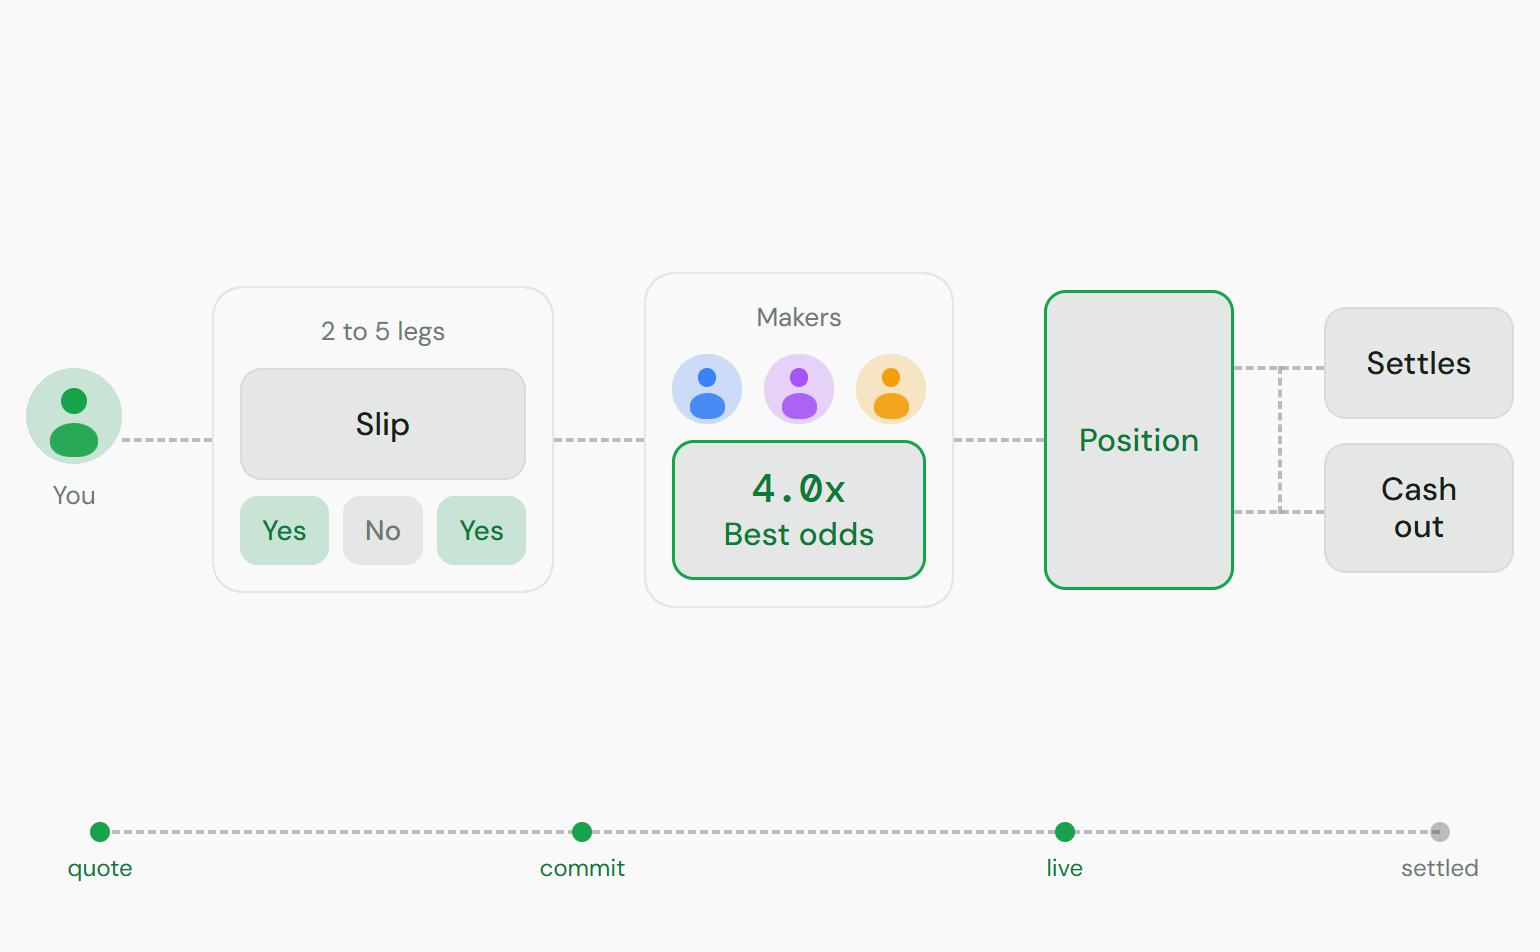
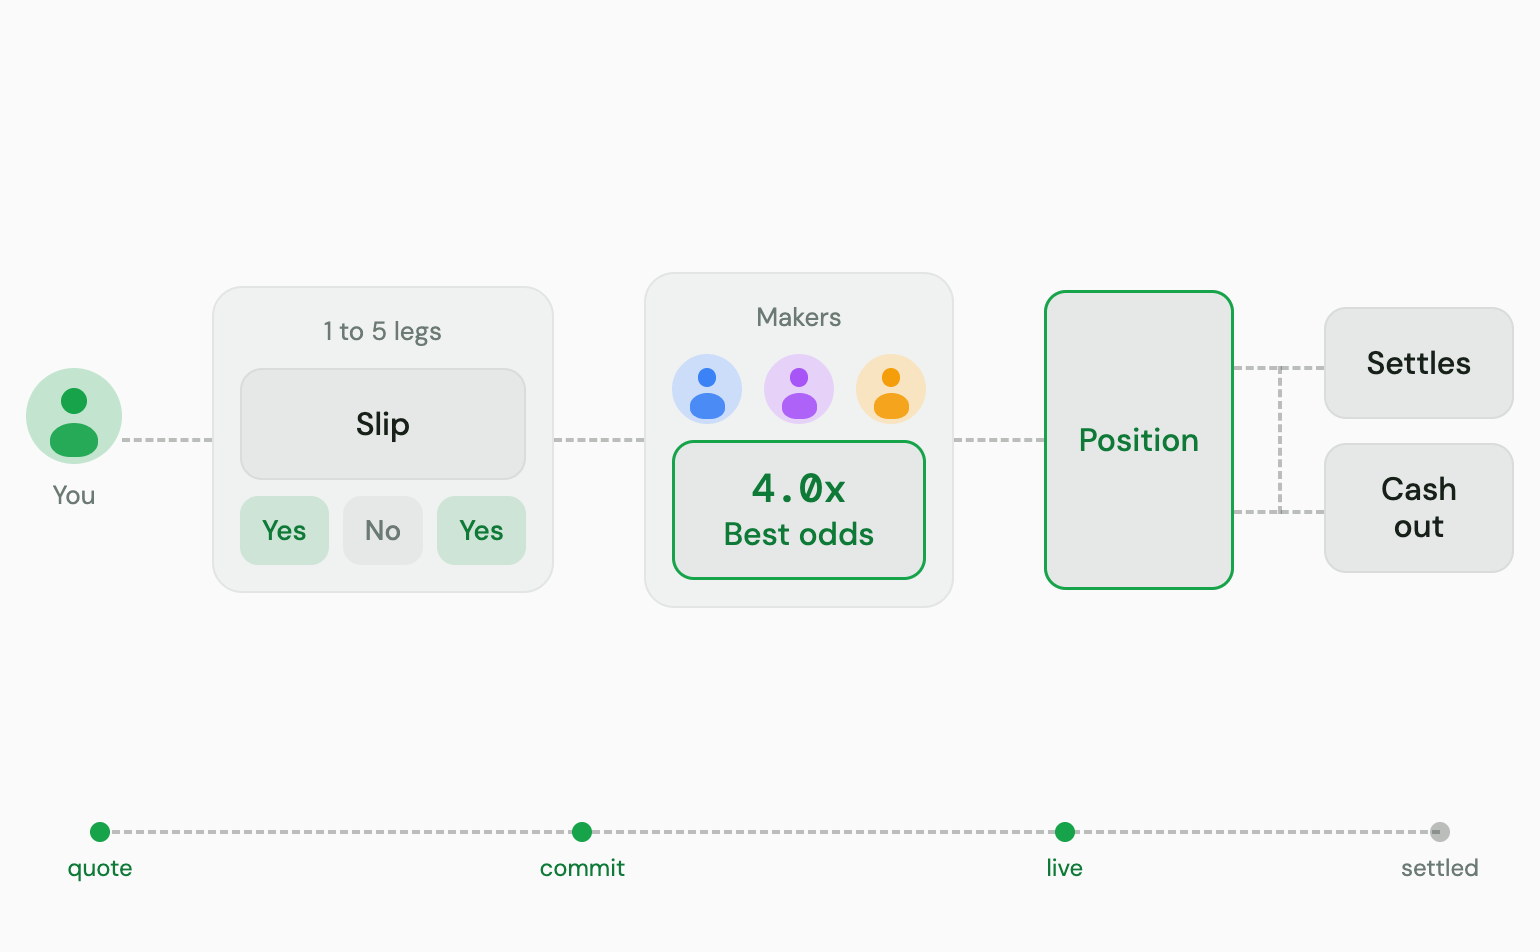
docs: single-leg parlays and a 1000 USDC bet cap
Legs per parlay go from 2-5 to 1-5 and the bet cap from 100 to 1000 USDC.
Payout odds keep their 1.0001 floor and lose the 1000 ceiling. Pages other
than Limits and fees and the API reference now link to the limits instead of
restating them.

diff --git a/images/pictures/src/lifecycle.html b/images/pictures/src/lifecycle.html
@@ -78,4 +78,4 @@ html, body { margin: 0; width: 1540px; height: 952px; background: var(--bg); fon
 .chan .bar { position: absolute; top: 0; height: 84px; border-radius: 22px; background: var(--box); border: 2px solid var(--box-line); }
 .chan .bar.hi { background: var(--accent-soft); border-color: transparent; }
 .marks { position: absolute; left: 400px; right: 100px; top: 700px; border-top: 4px dashed var(--dash); }
-</style></head><body><div class="stage"><div class="inner" style="zoom:1.0"><div class="who"><div class="avatar a1"></div><div class="label">You</div></div><div class="dl"></div><div class="panel"><p class="cap">2 to 5 legs</p><div class="box"><div class="t">Slip</div></div><div class="chips"><div class="chip yes">Yes</div><div class="chip no">No</div><div class="chip yes">Yes</div></div></div><div class="dl"></div><div class="panel"><p class="cap">Makers</p><div class="people"><div class="avatar a2 sm"></div><div class="avatar a3 sm"></div><div class="avatar a4 sm"></div></div><div class="box hi"><div class="n">4.0x</div><div class="t">Best odds</div></div></div><div class="dl"></div><div class="box hi tall"><div class="t">Position</div></div><div class="fork" style="--top:28%;--bottom:28%"><div class="arm a"></div><div class="arm b"></div></div><div class="stack"><div class="box"><div class="t">Settles</div></div><div class="box"><div class="t">Cash out</div></div></div></div></div><div class="rail"><div class="tick on" style="left:0%"><span>quote</span></div><div class="tick on" style="left:36%"><span>commit</span></div><div class="tick on" style="left:72%"><span>live</span></div><div class="tick " style="left:100%"><span>settled</span></div></div><script>if (location.search.includes("dark")) document.body.classList.add("dark");</script></body></html>
+</style></head><body><div class="stage"><div class="inner" style="zoom:1.0"><div class="who"><div class="avatar a1"></div><div class="label">You</div></div><div class="dl"></div><div class="panel"><p class="cap">1 to 5 legs</p><div class="box"><div class="t">Slip</div></div><div class="chips"><div class="chip yes">Yes</div><div class="chip no">No</div><div class="chip yes">Yes</div></div></div><div class="dl"></div><div class="panel"><p class="cap">Makers</p><div class="people"><div class="avatar a2 sm"></div><div class="avatar a3 sm"></div><div class="avatar a4 sm"></div></div><div class="box hi"><div class="n">4.0x</div><div class="t">Best odds</div></div></div><div class="dl"></div><div class="box hi tall"><div class="t">Position</div></div><div class="fork" style="--top:28%;--bottom:28%"><div class="arm a"></div><div class="arm b"></div></div><div class="stack"><div class="box"><div class="t">Settles</div></div><div class="box"><div class="t">Cash out</div></div></div></div></div><div class="rail"><div class="tick on" style="left:0%"><span>quote</span></div><div class="tick on" style="left:36%"><span>commit</span></div><div class="tick on" style="left:72%"><span>live</span></div><div class="tick " style="left:100%"><span>settled</span></div></div><script>if (location.search.includes("dark")) document.body.classList.add("dark");</script></body></html>

diff --git a/images/pictures/src/build.py b/images/pictures/src/build.py
@@ -35,7 +35,7 @@ def page(name, stage, ticks=None, zoom=1):
 # How parlays work: you, a slip, makers, one position, two ends
 page('lifecycle',
      who(1, 'You') + dl() +
-     panel(box('Slip'), chips(('Yes', 'yes'), ('No', 'no'), ('Yes', 'yes')), cap='2 to 5 legs') + dl() +
+     panel(box('Slip'), chips(('Yes', 'yes'), ('No', 'no'), ('Yes', 'yes')), cap='1 to 5 legs') + dl() +
      panel(people(2, 3, 4, sm=True), box('Best odds', n='4.0x', hi=True), cap='Makers') + dl() +
      box('Position', tall=True, hi=True) + fork(28, 28) +
      stack(box('Settles'), box('Cash out')),
